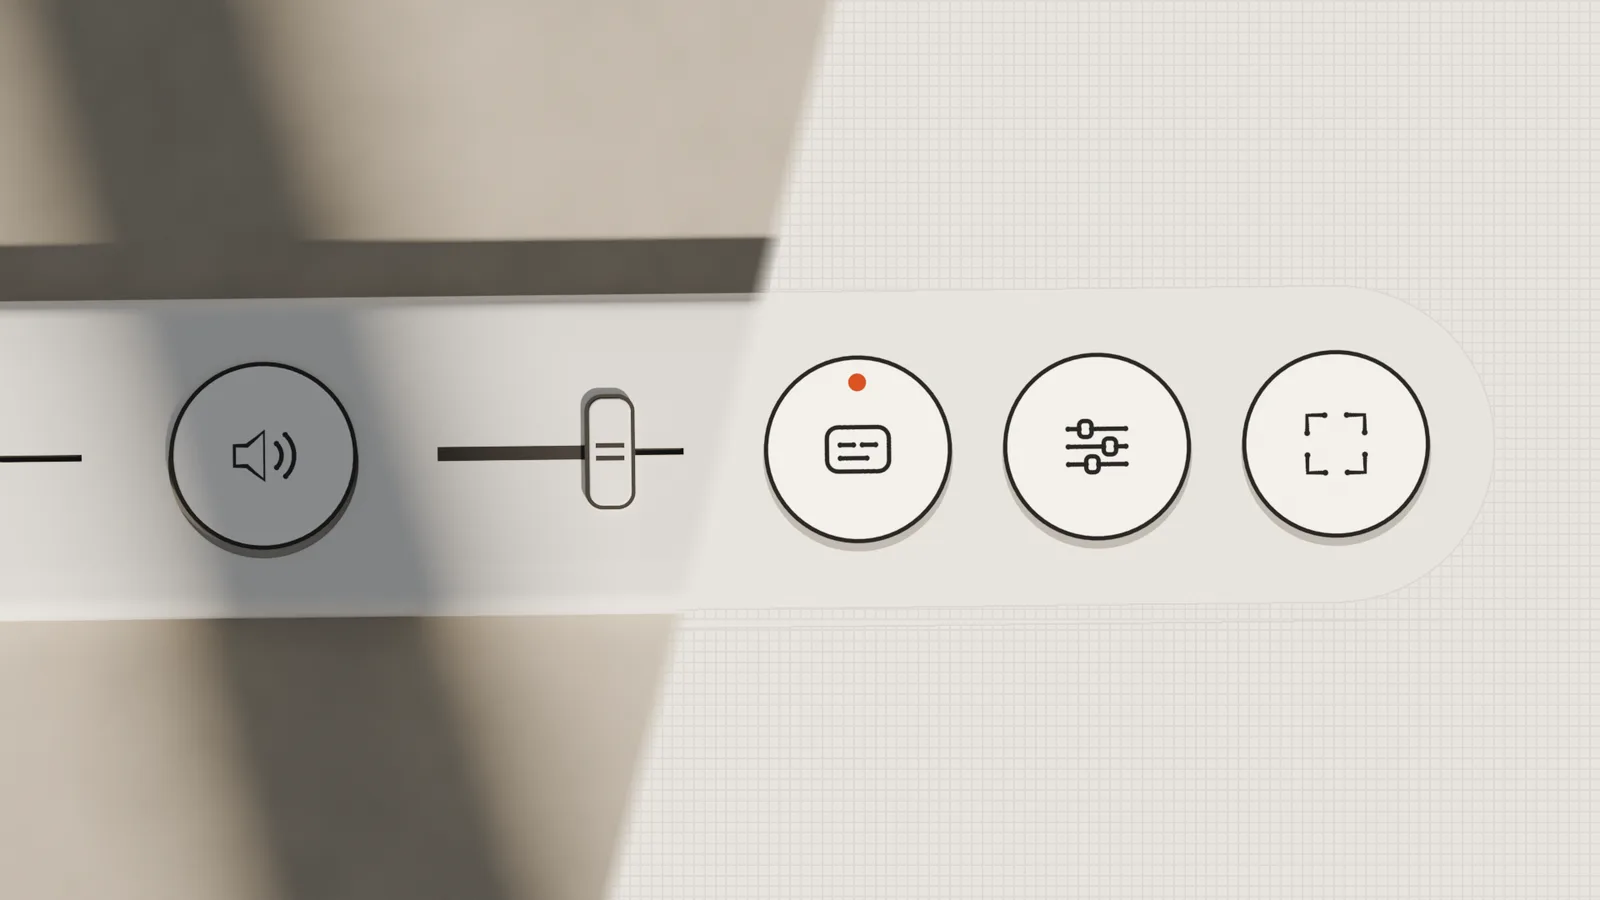
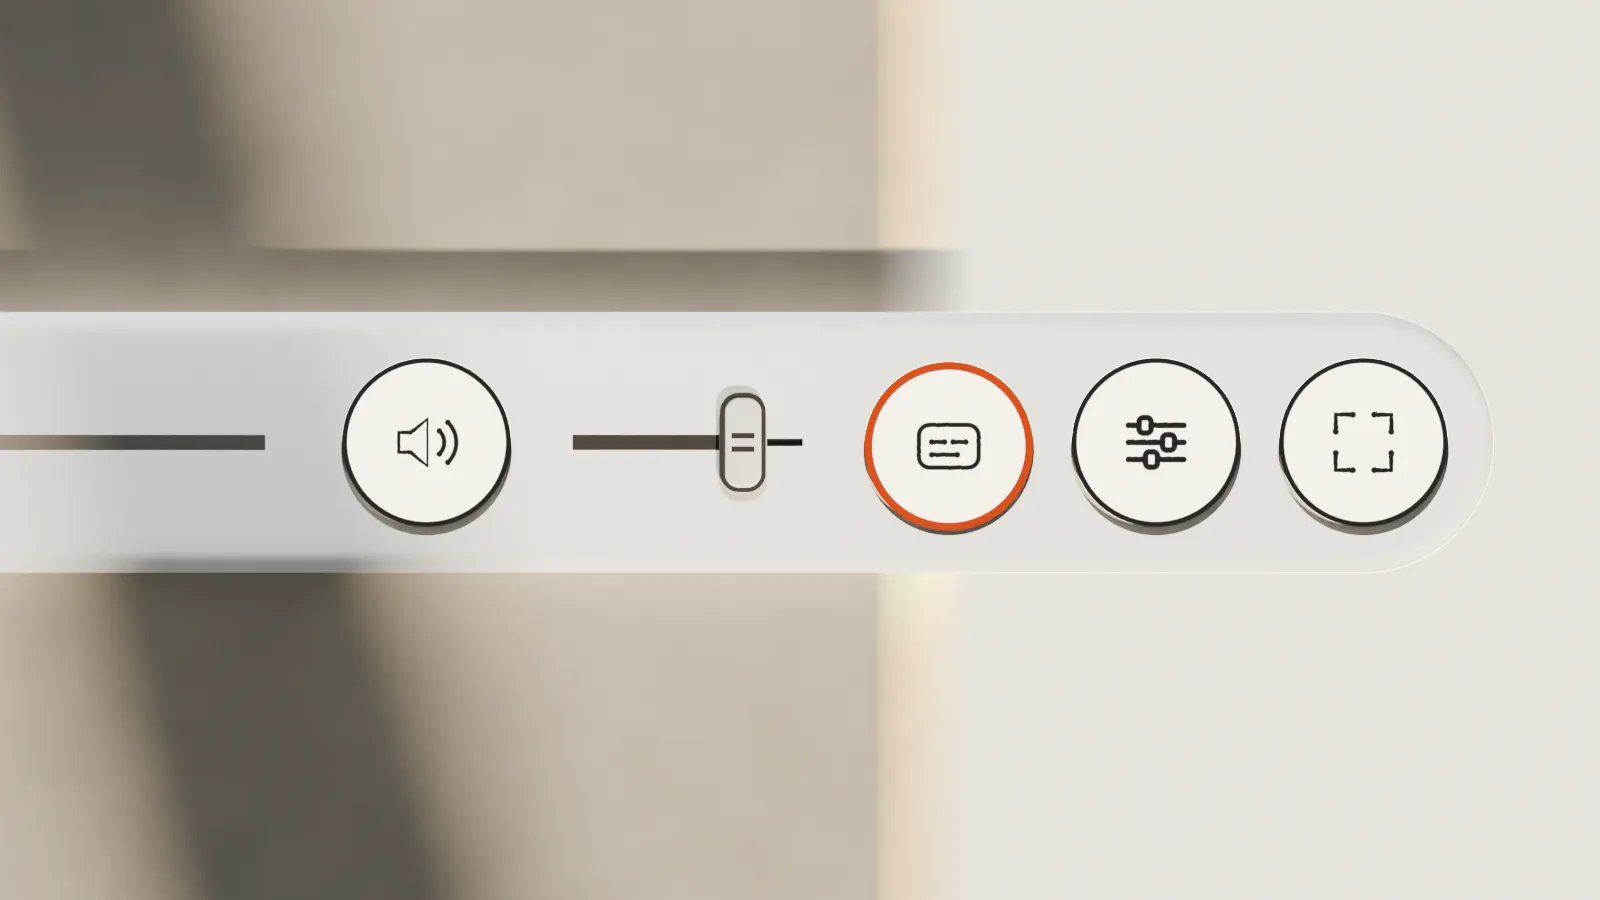
Cover key from the final render's frame 43 with the whole glyph in the lit area; step 3 caption with dock B's numbers (Ø 44, 12×26); flatten image from the final film's S5 (dock B); unused frame-key and frame-glazes removed

diff --git a/design/cover/cover.html b/design/cover/cover.html
@@ -5,8 +5,9 @@
     <title>Tactile — submission cover</title>
     <!--
       The submission cover and the OG image, from design/Cover.dc.html ("SUBMISSION · cover 1920×1080 + OG 1200×630").
-      The key on the left is frame 30 of the final film's 3D render (film/render/final/out/0030.png, the same shot as the
-      film, without its title layer); the player on the right is the real skin, live. render.mjs serves this page with
+      The key on the left is frame 43 of the final film's 3D render (film/render/final/out/0043.png, the sharpest glyph
+      of f40–50, the same shot as the film without its title layer), at 0.6 so the whole glyph sits in the lit area
+      before the shade (which starts at 35 %); the player on the right is the real skin, live. render.mjs serves this page with
       Vite and exports it: ?format=cover (1920 × 1080) or ?format=og (1200 × 630, no subtitle). The OG is the cover's
       parts at 0.625, anchored to its top and bottom edges, the player scaled with them (same 900 px layout).
     -->
@@ -50,21 +51,27 @@
         height: 630px;
       }
 
+      /* The render at --k of its 1920 × 1080, placed so its glyph (render x 1010–1670) ends before the shade starts
+         (35 %); the face is as dark as the ground, so the edges only need a soft fade. */
       .key {
+        --k: 0.6;
         position: absolute;
-        left: calc(-120px * var(--s));
-        top: calc(-40px * var(--s));
-        width: calc(1340px * var(--s));
-        height: calc(100% + 80px * var(--s));
-        object-fit: cover;
-        object-position: 30% 50%;
+        left: calc(var(--key-x) * var(--s));
+        top: calc(var(--key-y) * var(--s));
+        width: calc(1920px * var(--k) * var(--s));
+        height: calc(1080px * var(--k) * var(--s));
+        --key-x: -362px;
+        --key-y: 230px;
         opacity: 0.95;
+        mask-image: linear-gradient(transparent, #000 24%, #000 78%, transparent),
+          linear-gradient(90deg, #000 48%, transparent 96%);
+        mask-composite: intersect;
       }
 
       .shade {
         position: absolute;
         inset: 0;
-        background: linear-gradient(90deg, rgb(20 19 19 / 0) 30%, rgb(20 19 19 / 0.85) 62%, #141313 78%);
+        background: linear-gradient(90deg, rgb(20 19 19 / 0) 35%, rgb(20 19 19 / 0.85) 62%, #141313 78%);
       }
 
       .eyebrow,
@@ -163,7 +170,7 @@
   </head>
   <body>
     <div class="frame" id="frame">
-      <img class="key" src="./key-f30.jpg" alt="" />
+      <img class="key" src="./key-f43.jpg" alt="" />
       <div class="shade"></div>
       <div class="eyebrow">VIDEO.JS V10 SKIN · OPEN SOURCE</div>
       <div class="title">

diff --git a/apps/preview/index.html b/apps/preview/index.html
@@ -164,11 +164,11 @@
             <li class="cell step">
               <span class="mono step-n">3 · THE OBJECT</span>
               <img class="step-img" src="/img/origin-exploded.webp" width="1600" height="900" loading="lazy" alt="Exploded view of the keypad: keys, faders and display lifted above the body, with measurements" />
-              <span class="step-t">Real parts, real numbers: Ø 52 keys, 2 mm travel, a 14×32 fader cap.</span>
+              <span class="step-t">Real parts, real numbers: Ø 44 keys, 2 mm travel, a 12×26 fader cap.</span>
             </li>
             <li class="cell step">
               <span class="mono step-n">4 · THE FLATTEN</span>
-              <img class="step-img" src="/frame-flatten.webp" width="1600" height="900" loading="lazy" alt="Half lit 3D object, half flat interface on an 8 px grid" />
+              <img class="step-img" src="/frame-flatten.webp" width="1600" height="900" loading="lazy" alt="The dock mid-flatten: lit 3D linen on the left, the flat page wiping in from the right behind the keys" />
               <span class="step-t">The engraved ring became a 1.25 px border. The groove became the timeline.</span>
             </li>
             <li class="cell step">

diff --git a/design/fidelity.md b/design/fidelity.md
@@ -269,8 +269,9 @@ not changed.
 - **Test bar.** Daylight / Night seek to `DAY_T` / `NIGHT_T` (12.5 s, the flatten at mean luma 206/255; 20 s, the
   display macro at 41/255) and play; the chip label times come from the constants. Swatches are `<button aria-pressed aria-label>` and set `--media-accent-color` and
   `--media-accent-text-color` on the player. Tab order: player controls → Daylight → Night → four swatches.
-- **Images.** `frame-flatten.webp`, `frame-key.webp`, `frame-glazes.webp` (1600 × 900 WebP from film/frames) with the
-  board's alt texts. `og.png` 1200 × 630 from the poster frame (film frame 45) plus the title (replaced on 2026-11-10 by
+- **Images.** `frame-flatten.webp` (1600 × 900 WebP). Since 2026-11-11 it is frame 434 of the final film's 3D render
+  (S5, the wipe between the fader and the Captions key, dock B, no burned-in title), cropped 1:1; the board's
+  `frame-key.webp` and `frame-glazes.webp` were unused and are deleted. `og.png` 1200 × 630 from the poster frame (film frame 45) plus the title (replaced on 2026-11-10 by
   `og-1200x630.png`, made by design/cover/render.mjs from design/Cover.dc.html); `favicon.svg` is the
   play key.
 - **Differences.** The band grows past 52px at 390 (min-height instead of height) because the 26px title needs two lines; the
